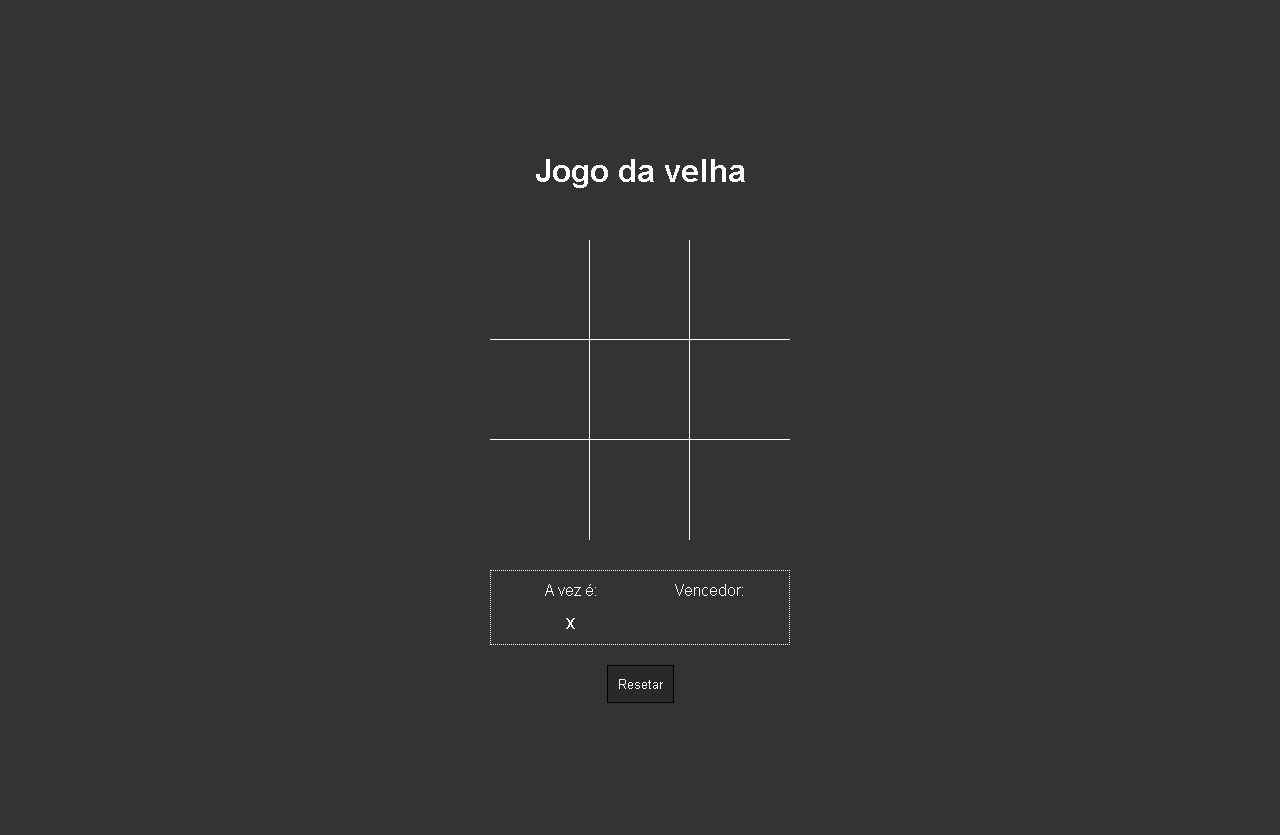
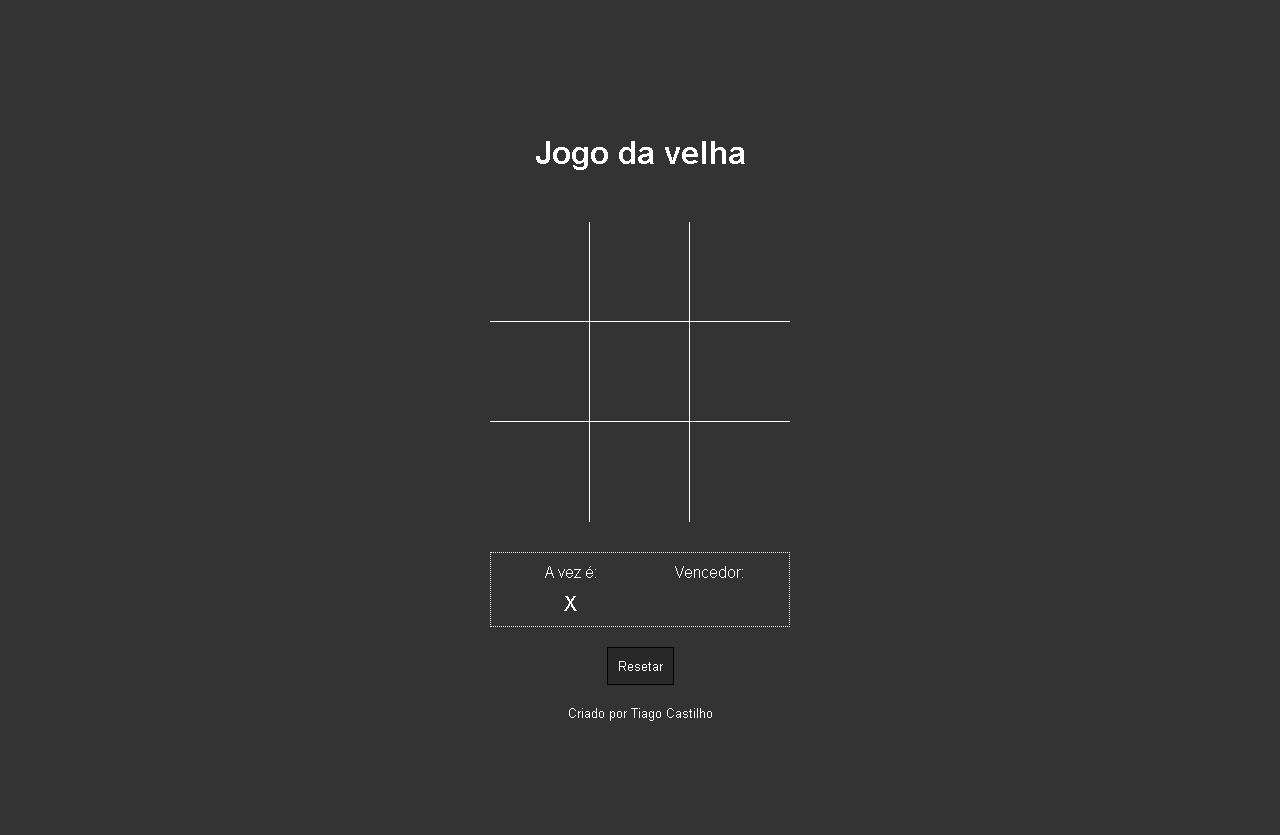
Alteração das imagens, do index, css e js

diff --git a/Projeto 14 - Jogo da Velha/script.js b/Projeto 14 - Jogo da Velha/script.js
@@ -1,113 +1,111 @@
-// Dados iniciais
-let quadro = {
-    a1: '', a2: '', a3: '',
-    b1: '', b2: '', b3: '',
-    c1: '', c2: '', c3: ''
-};
-let playing = false;
-let vez = 'x';
-let warning = '';
+// Initial Data
+    let square = {
+        a1: '', a2: '', a3: '',
+        b1: '', b2: '', b3: '',
+        c1: '', c2: '', c3: ''
+    };
+    let player = '';
+    let warning = '';
+    let playing = false;
 
-reset();
+    reset();
 
-// Eventos
-document.querySelector('.reset').addEventListener('click', reset);
-
-document.querySelectorAll('.item').forEach((item)=>{
-    item.addEventListener('click', (e) => {
-        let loc = e.target.getAttribute('data-item');
-        
-        if(playing && quadro[loc] === '') {
-            quadro[loc] = vez;
-            renderQuadro();
+// Events
+    document.querySelector('.reset').addEventListener('click', reset);
+    document.querySelectorAll('.item').forEach(item => {
+        item.addEventListener('click', itemClick);
+    });
+// Functions
+    function itemClick(event) {
+        let item = event.target.getAttribute('data-item');
+        if(playing && square[item] === '') {
+            square[item] = player;
+            renderSquare();
             togglePlayer();
         }
-    });
-});
-
-// Funções
-function reset() {
-    warning = '';
-
-    // definir a vez
-    let random = Math.floor(Math.random() * 2);
-    vez = random === 0 ? 'x' : 'o';
-
-    // resetar os quadros
-    for(let i in quadro) {
-        quadro[i] = '';
     }
 
-    // renderizar tudo
-    renderQuadro();
-    renderInfo();
+    function reset() {
+        warning = '';
 
-    playing = true;
-}
+        let random = Math.floor(Math.random() * 2);
+        player = (random === 0) ? 'X' : 'O';
+       
+        for(let i in square) {
+            square[i] = '';
+        }
 
-function renderQuadro() {
-    for(let i in quadro) {
-        let item = document.querySelector(`div[data-item=${i}]`);
-        if(quadro[i] !== '') {
-            item.innerHTML = quadro[i];
-        } else {
-            item.innerHTML = '';
+        playing = true;
+
+        renderSquare();
+        renderInfo();
+    }
+
+    function renderSquare() {
+        for(let i in square) {
+            let item = document.querySelector(`div[data-item=${i}]`);
+            item.innerHTML = square[i];
+        }
+
+        checkGame();
+    }
+
+    function renderInfo() {
+        document.querySelector('.vez').innerHTML = player;
+        document.querySelector('.resultado').innerHTML = warning;
+    }
+
+    function togglePlayer() {
+        player = (player === 'X') ? 'O' : 'X';
+        renderInfo();
+    }
+
+    function checkGame() {
+        if(checkWinnerFor('X')) {
+            warning = 'O "X" venceu!';
+            playing = false;
+        } else if(checkWinnerFor('O')) {
+            warning = 'O "O" venceu!';
+            playing = false;
+        } else if(isFull()) {
+            warning = 'Deu empate!';
+            playing = false;
         }
     }
 
-    checkGame();
-}
-
-function renderInfo() {
-    document.querySelector('.vez').innerHTML = vez;
-    document.querySelector('.resultado').innerHTML = warning;
-}
-
-function togglePlayer() {
-    vez = vez === 'x' ? 'o' : 'x';
-    renderInfo();
-}
-
-function checkGame() {
-    if(checkWinnerFor('x')) {
-        warning = 'O "x" venceu';
-        playing = false;
-    } else if(checkWinnerFor('o')) {
-        warning = 'O "o" venceu';
-        playing = false;
-    } else if(isFull()) {
-        warning = 'Deu empate';
-        playing = false;
-    }
-}
-
-function checkWinnerFor(i) {
-    let pos = [
-        'a1,a2,a3',
-        'b1,b2,b3',
-        'c1,c2,c3',
-
-        'a1,b1,c1',
-        'a2,b2,c2',
-        'a3,b3,c3',
-
-        'a1,b2,c3',
-        'a3,b2,c1'
-    ];
-
-    for(let w in pos) {
-        let pArray = pos[w].split(',');
-        let hasWon = pArray.every(option=>quadro[option] === i);
-        if(hasWon) return true;
-    }
-
-    return false;
-}
-function isFull() {
-    for(let i in quadro) {
-        if(quadro[i] === '') {
-            return false;
+    function checkWinnerFor(player) {
+        let pos = [
+            'a1,a2,a3',
+            'b1,b2,b3',
+            'c1,c2,c3',
+            'a1,b1,c1',
+            'a2,b2,c2',
+            'a3,b3,c3',
+            'a1,b2,c3',
+            'a3,b2,c1'
+        ];
+        for(let w in pos) {
+            let pArray = pos[w].split(','); // a1, a2, a3
+            let hasWon = pArray.every((option)=>{
+                    if(square[option] === player) {
+                        return true;
+                    } else {
+                        return false;
+                    }
+                });
+                if(hasWon) {
+                    return true;
+                }
         }
+        return false;
     }
-    return true;
-}
+
+    function isFull() {
+        for(let i in square) {
+            if(square[i] === '') {
+                return false;
+            }
+        }
+
+        return true;
+    }

diff --git a/Projeto 14 - Jogo da Velha/index.html b/Projeto 14 - Jogo da Velha/index.html
@@ -4,7 +4,7 @@
     <meta charset="UTF-8">
     <meta http-equiv="X-UA-Compatible" content="IE=edge">
     <meta name="viewport" content="width=device-width, initial-scale=1.0">
-    <title>Jogo da velha - FUNCIONANDO</title>
+    <title>Jogo da velha</title>
     <link rel="stylesheet" href="style.css" />
 </head>
 <body>
@@ -39,4 +39,5 @@
 
     <script src="script.js"></script>
 </body>
+<footer>Criado por Tiago Castilho</footer>
 </html>

diff --git a/Projeto 14 - Jogo da Velha/style.css b/Projeto 14 - Jogo da Velha/style.css
@@ -81,3 +81,8 @@ h1 {
     padding: 10px;
     margin-top: 20px;
 }
+footer {
+    margin-top: 20px;
+    color: #FFF;
+    font-size: 13px;
+}
